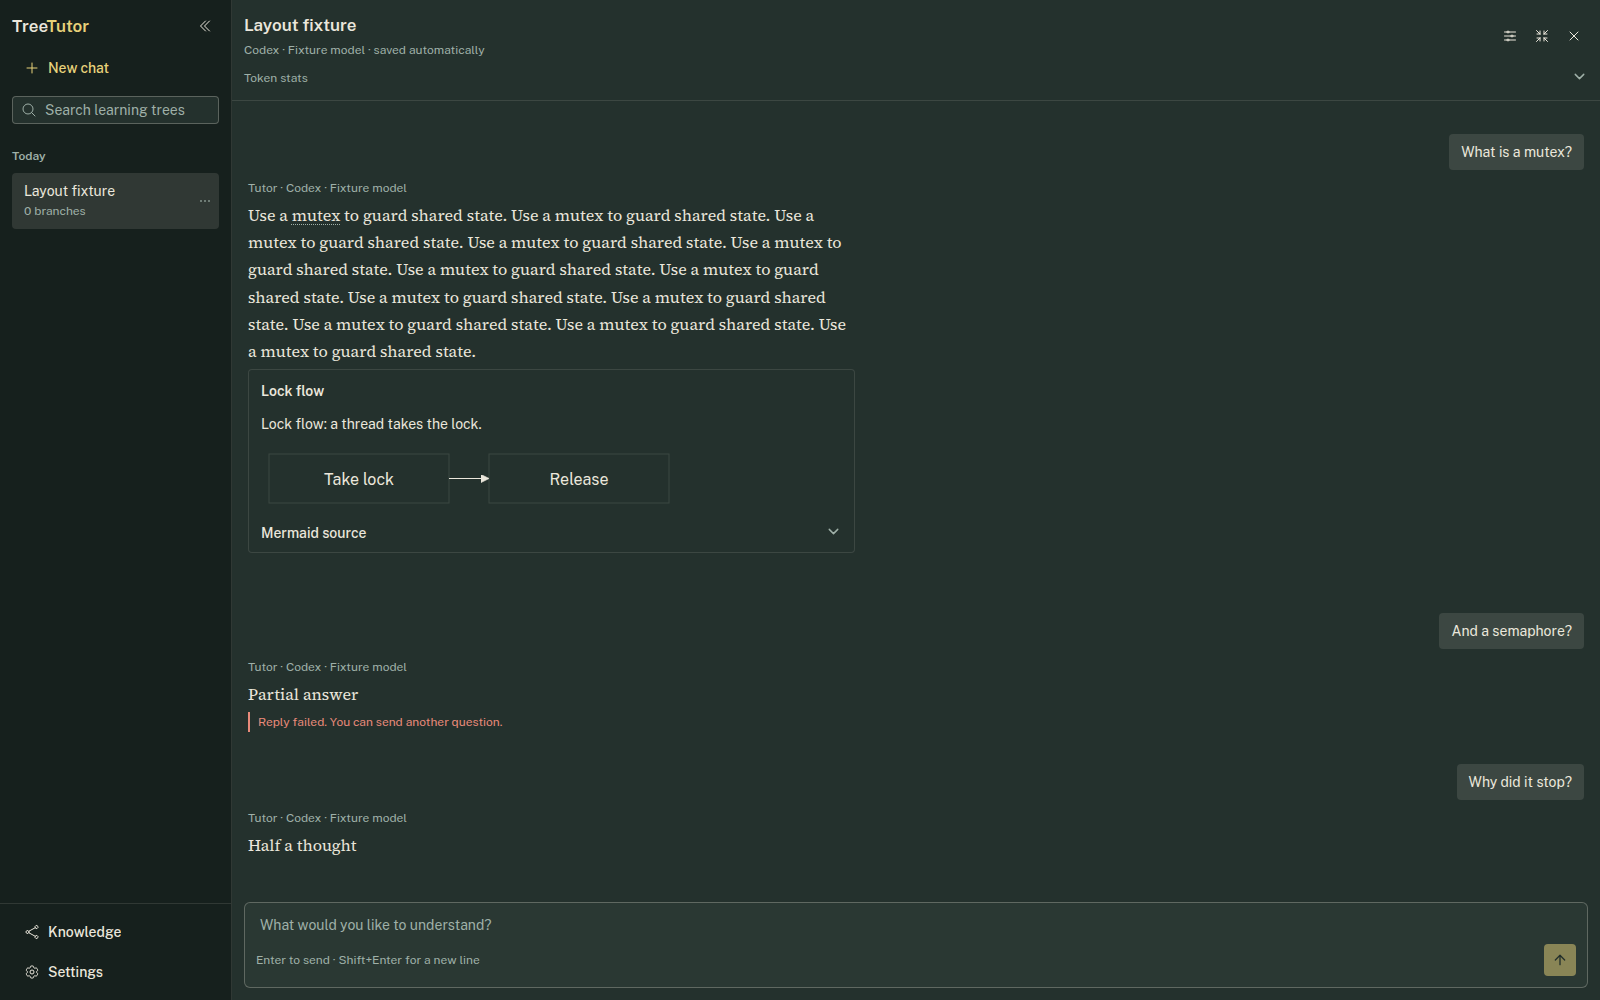
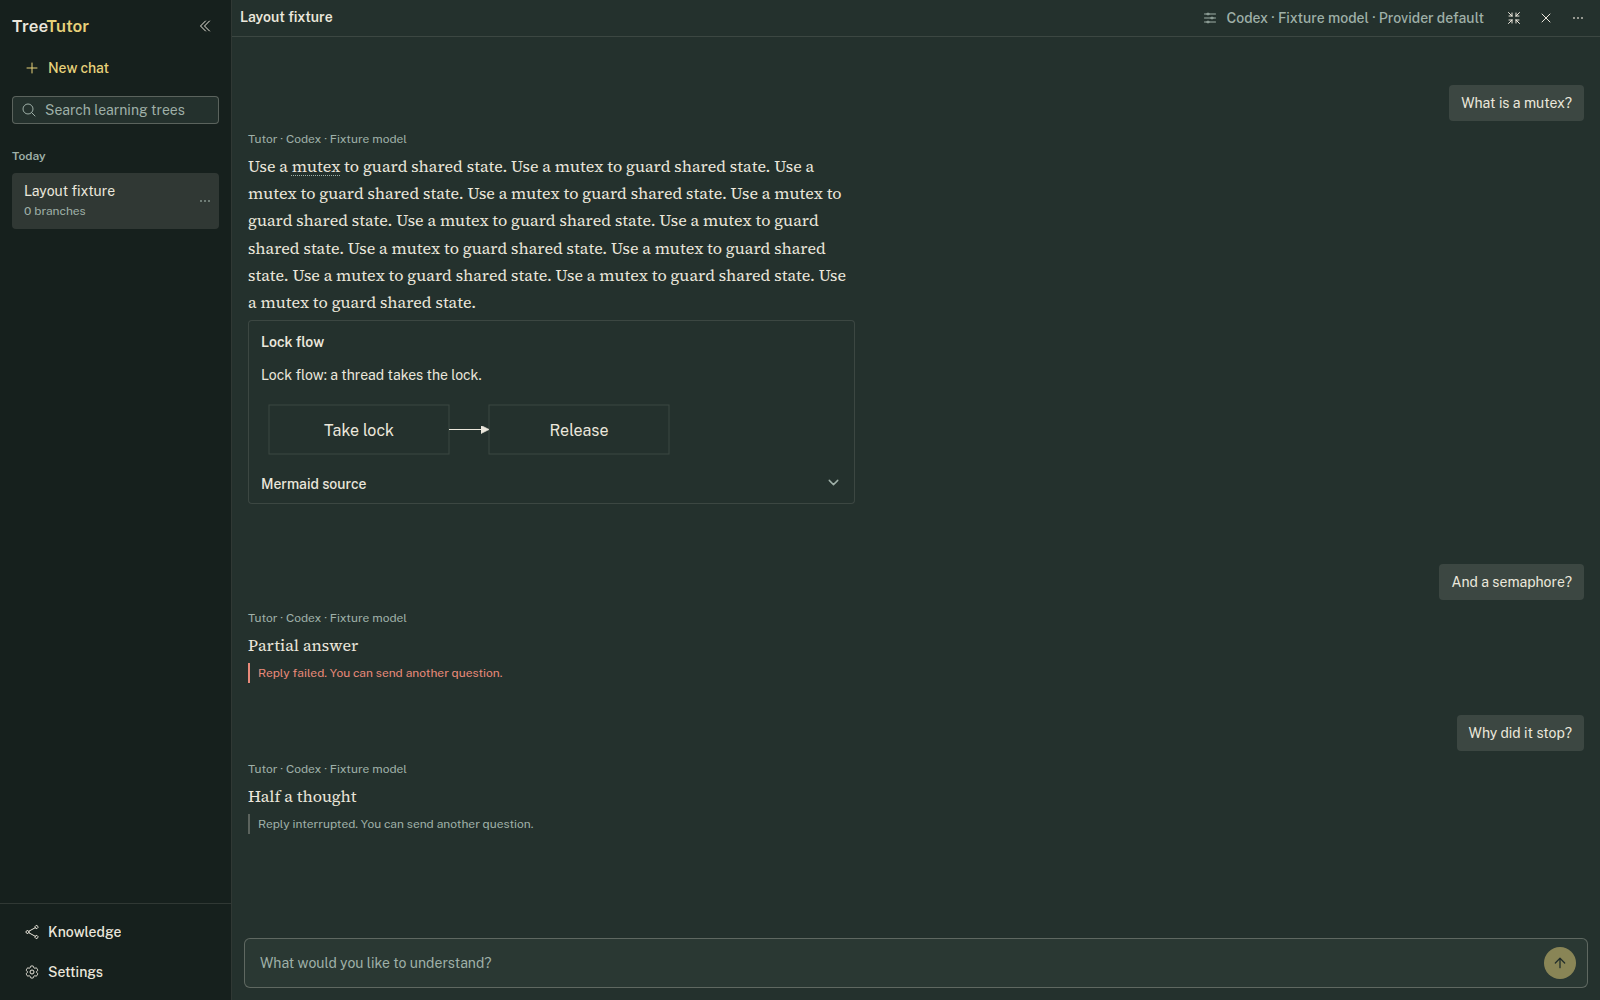
task: TreeTutor-dx0.1 Read and reply through a slim header and floating composer

diff --git a/src/ChatPage.tsx b/src/ChatPage.tsx
@@ -222,6 +222,7 @@ export default function ChatPage({ appearance, setAppearance }: { appearance: Ap
   const [root, setRoot] = useState<string>();
   const [overview, setOverview] = useState(true);
   const [expanded, setExpanded] = useState(false);
+  const [statsOpen, setStatsOpen] = useState(false);
   const [folds, setFolds] = useState<{ root: string; ids: string[] }>();
   const [transitionBox, setTransitionBox] = useState<string>();
   const overviewOrigin = useRef<{ id: string; control: string }>(undefined);
@@ -745,13 +746,13 @@ export default function ChatPage({ appearance, setAppearance }: { appearance: Ap
           onKeyDown={e => { const next = keyChatWidth(shownChatWidth, e.key, workspaceWidth, e.shiftKey); if (next === undefined) return; e.preventDefault(); setChatWidth(next); }} />}
         <section id="focused-chat" className="focused-chat" style={{ display: overview && root ? 'none' : 'flex' }} onKeyDown={e => { if (e.key === 'Escape' && !branch && !e.defaultPrevented && !(e.target as Element).closest('[role=menu], video, dialog')) { e.preventDefault(); returnToTree(); } }}>
         {tree ? <>
-          <header className="chat-header"><VStack padding={3} gap={1}>
+          <header className="chat-header"><VStack paddingInline={2} paddingBlock={1} gap={1}>
             <HStack gap={1} vAlign="center" className="chat-heading-row">
+              {tree.branch && <IconButton label="Return to parent conversation" tooltip={`Back to ${state?.trees.find(t => t.id === tree.branch!.parent)?.title ?? 'parent conversation'}`} icon={<ArrowUturnLeftIcon />} variant="ghost" size="sm" onClick={() => openConversation(tree.branch!.parent)} />}
               <VStack gap={0} className="chat-title">
-                {renaming?.id === tree.id && renaming.place === 'header' ? <TitleEditor key={tree.id} title={tree.title} save={title => rename(tree.id, title)} cancel={finishRename} /> : <Button id="rename-conversation" className="rename-title" label="Rename conversation" tooltip={`Rename ${tree.title}`} variant="ghost" size="sm" onClick={() => setRenaming({ id: tree.id, place: 'header' })}><Heading level={2} style={{ viewTransitionName: !overview && transitionBox ? 'conversation' : undefined }}>{tree.title}</Heading></Button>}
-                <Text type="supporting" color="secondary" className="chat-model">{modelLabel(tree)} · {effortLabel(tree.effort)} · saved automatically</Text>
+                {renaming?.id === tree.id && renaming.place === 'header' ? <TitleEditor key={tree.id} title={tree.title} save={title => rename(tree.id, title)} cancel={finishRename} /> : <Button id="rename-conversation" className="rename-title" label="Rename conversation" tooltip={tree.title} variant="ghost" size="sm" onClick={() => setRenaming({ id: tree.id, place: 'header' })}><Heading level={2} style={{ viewTransitionName: !overview && transitionBox ? 'conversation' : undefined }}>{tree.title}</Heading></Button>}
               </VStack>
-              <DropdownMenu presentation="popover" alignment="end" menuWidth="16rem" isMenuOpen={modelMenuOpen} onOpenChange={open => void openModels(open)} renderTrigger={props => <IconButton {...props} label="Model for next reply" tooltip={active ? 'Wait for this reply to finish before changing models' : openingModels ? 'Loading models' : savingModel ? 'Saving model selection' : `Model for next reply: ${modelLabel(tree)}`} icon={<AdjustmentsHorizontalIcon />} variant="ghost" size="sm" isDisabled={active || !!savingModel || openingModels} isLoading={openingModels || savingModel === tree.id} />}>
+              <DropdownMenu presentation="popover" alignment="end" menuWidth="16rem" isMenuOpen={modelMenuOpen} onOpenChange={open => void openModels(open)} renderTrigger={props => <Button {...props} className="model-picker" label="Model for next reply" tooltip={active ? 'Wait for this reply to finish before changing models' : openingModels ? 'Loading models' : savingModel ? 'Saving model selection' : `Model for next reply: ${modelLabel(tree)} · ${effortLabel(tree.effort)}`} icon={<AdjustmentsHorizontalIcon />} variant="ghost" size="sm" isDisabled={active || !!savingModel || openingModels} isLoading={openingModels || savingModel === tree.id}><span className="chat-model">{modelLabel(tree)} · {effortLabel(tree.effort)}</span></Button>}>
                 {['claude', 'codex', 'openai'].map(id => { const p = providers?.[id] ?? { label: providerLabel(id), connected: false }; return <DropdownMenuGroup key={id} title={p.connected ? p.label : `${p.label} · not connected`}>
                   {p.connected && models?.some(m => m.provider === id) ? <DropdownMenuRadioGroup label={`${p.label} models`} value={tree.provider === id ? tree.model ?? models?.find(m => m.provider === id && m.isDefault)?.model : undefined} onChange={model => void changeModel(id, model, tree.effort && models?.find(m => m.provider === id && m.model === model)?.efforts?.includes(tree.effort) ? tree.effort : null)}>
                     {tree.provider === id && tree.model && !models?.some(m => m.provider === id && m.model === tree.model) && <DropdownMenuRadioItem value={tree.model} label={`${tree.model} (saved)`} isDisabled />}
@@ -771,25 +772,23 @@ export default function ChatPage({ appearance, setAppearance }: { appearance: Ap
               </DropdownMenu>
               <IconButton className="expand-chat" label={expanded ? 'Show map beside chat' : 'Expand chat'} tooltip={expanded ? 'Show map beside chat' : 'Expand chat'} icon={expanded ? <ArrowsPointingInIcon /> : <ArrowsPointingOutIcon />} variant="ghost" size="sm" onClick={toggleExpanded} />
               <IconButton label="Return to tree" tooltip="Back to map (Esc)" icon={<XMarkIcon />} variant="ghost" size="sm" onClick={returnToTree} />
+              <DropdownMenu presentation="popover" alignment="end" renderTrigger={props => <IconButton {...props} label="More conversation options" tooltip="More" icon={<EllipsisHorizontalIcon />} variant="ghost" size="sm" />}>
+                <DropdownMenuItem label={statsOpen ? 'Hide token stats' : 'Show token stats'} onClick={() => setStatsOpen(open => !open)} />
+                <DropdownMenuItem label="Rename conversation" icon={<PencilSquareIcon />} onClick={() => setRenaming({ id: tree.id, place: 'header' })} />
+              </DropdownMenu>
             </HStack>
             {modelNotice && <Text type="supporting" role="status">{modelNotice}</Text>}
             {unavailableSelection && <Text type="supporting" role="alert">Saved model or effort unavailable. Check Connections in Settings or choose a listed model and effort. Your discussion is saved.</Text>}
             {tree.provider === 'codex' && codexFallback && <Text type="supporting" color="secondary" role="note">GPT-6.1 Terra isn’t listed for this account. New conversations use {codexFallback.label}, the account default.</Text>}
-            {tree.branch && <HStack gap={1} vAlign="center" wrap="wrap" className="chat-parent">
-              <Button label="Return to parent conversation" variant="ghost" size="sm" icon={<ArrowUturnLeftIcon />} onClick={() => openConversation(tree.branch!.parent)}>{state?.trees.find(t => t.id === tree.branch!.parent)?.title ?? 'Parent conversation'}</Button>
-              <Text type="supporting" color="secondary">from “{tree.branch.text}”</Text>
-            </HStack>}
-            <Collapsible key={tree.id} className="chat-stats" defaultIsOpen={false} trigger={<Text type="supporting" color="secondary">Token stats</Text>}>
-              <VStack gap={2} className="chat-stats-body">
-                {tree.messages.filter(m => m.role === 'assistant' && m.status === 'completed').map((m, i) => <Text key={m.id} type="supporting" color="secondary">Reply {i + 1}: {replyUsageLine(m.usage ?? null, tree.suggestions?.find(s => s.message === m.id)?.usage)}</Text>)}
-                {!tree.messages.some(m => m.role === 'assistant' && m.status === 'completed') && <Text type="supporting" color="secondary">Token usage appears after a completed reply.</Text>}
-              </VStack>
-            </Collapsible>
+            {statsOpen && <VStack gap={1} className="chat-stats-body" role="region" aria-label="Token stats">
+              {tree.messages.filter(m => m.role === 'assistant' && m.status === 'completed').map((m, i) => <Text key={m.id} type="supporting" color="secondary">Reply {i + 1}: {replyUsageLine(m.usage ?? null, tree.suggestions?.find(s => s.message === m.id)?.usage)}</Text>)}
+              {!tree.messages.some(m => m.role === 'assistant' && m.status === 'completed') && <Text type="supporting" color="secondary">Token usage appears after a completed reply.</Text>}
+            </VStack>}
             {modelError && <HStack gap={2} vAlign="center" role="alert"><Text type="supporting">{modelError}</Text><Button label="Retry loading models" variant="ghost" size="sm" onClick={() => void loadModels()} /></HStack>}
             {!modelError && models && !models.length && <Button label="Retry loading models" variant="ghost" size="sm" onClick={() => void loadModels()} />}
           </VStack></header>
           {source && !validSource && <Text role="alert">Saved source passage is unavailable. No replacement passage was selected.</Text>}
-          <ChatLayout density="balanced" composer={<ChatComposer elevation="none" value={drafts[tree.id] ?? ''} onChange={value => setDrafts(d => ({ ...d, [tree.id]: value }))} onSubmit={text => void send(text)} isStopShown={active} onStop={() => { void api(`/api/trees/${tree.id}/stop`, {}).catch(e => setError(e.message)); }} input={<ChatComposerInput handleRef={composer} label="Your question" maxRows={4} value={drafts[tree.id] ?? ''} onChange={value => setDrafts(d => ({ ...d, [tree.id]: value }))} isDisabled={active} placeholder="What would you like to understand?" />} footerActions={<Text type="supporting" color="secondary">Enter to send · Shift+Enter for a new line</Text>} />}>
+          <ChatLayout density="balanced" composer={<ChatComposer elevation="none" value={drafts[tree.id] ?? ''} onChange={value => setDrafts(d => ({ ...d, [tree.id]: value }))} onSubmit={text => void send(text)} isStopShown={active} onStop={() => { void api(`/api/trees/${tree.id}/stop`, {}).catch(e => setError(e.message)); }} input={<ChatComposerInput handleRef={composer} label="Your question" maxRows={4} value={drafts[tree.id] ?? ''} onChange={value => setDrafts(d => ({ ...d, [tree.id]: value }))} isDisabled={active} placeholder="What would you like to understand?" />} />}>
             <ChatMessageList gap={2}>
               {tree.branch && <Collapsible className="inherited-context" defaultIsOpen={false} trigger={<Text weight="medium">Inherited from {state?.trees.find(t => t.id === tree.branch!.parent)?.title ?? 'parent conversation'}</Text>}>
                 <dl className="inherited-body">

diff --git a/src/layout.ts b/src/layout.ts
@@ -54,13 +54,8 @@ html { view-transition-name: none; }
 .sr-only { position: absolute; width: 1px; height: 1px; padding: 0; margin: -1px; overflow: hidden; clip-path: inset(50%); white-space: nowrap; border: 0; }
 .focus-reveal:not(:focus-visible) { position: absolute; width: 1px; height: 1px; overflow: hidden; clip-path: inset(50%); white-space: nowrap; }
 .chat-header { flex: none; max-height: 40dvh; overflow: auto; border-bottom: thin solid var(--color-border); }
-.chat-heading-row > button { flex-shrink: 0; }
-.chat-model { overflow-wrap: anywhere; }
-.chat-parent { color: var(--color-text-secondary); }
-.chat-parent > button { min-width: 0; height: auto; white-space: normal; text-align: start; }
-.chat-parent > .astryx-text { min-width: 0; overflow-wrap: anywhere; }
-.chat-stats .astryx-collapsible-trigger { padding: 0; min-height: var(--spacing-6); color: var(--color-text-secondary); }
-.chat-stats-body { max-height: 20dvh; overflow: auto; padding-block: var(--spacing-2); overflow-wrap: anywhere; }
+.chat-heading-row > button:not(.model-picker) { flex-shrink: 0; }
+.chat-stats-body { max-height: 20dvh; overflow: auto; padding-block: var(--spacing-1) var(--spacing-2); padding-inline: var(--spacing-2); overflow-wrap: anywhere; }
 .bubble-tint-swatch { width: var(--spacing-5); aspect-ratio: 1; border: thin solid var(--color-border-emphasized); border-radius: var(--radius-element); }
 .question-bubble { background: var(--question-bubble-tint); color: var(--color-text-primary); border-radius: var(--radius-element); padding: var(--spacing-2) var(--spacing-3); overflow-wrap: anywhere; }
 .chat-title { flex: 1; min-width: 0; }
@@ -82,7 +77,9 @@ html { view-transition-name: none; }
 .chat-title .rename-title { width: 100%; min-width: 0; justify-content: flex-start; padding-inline: 0; }
 .saved-chat-title { flex: 1; min-width: 0; }
 .saved-chat-title > * { min-width: 0; }
-.chat-title h2 { font-size: var(--font-size-lg); font-weight: 600; overflow: hidden; text-overflow: ellipsis; white-space: nowrap; }
+.chat-title h2 { font-size: var(--font-size-base); font-weight: 600; overflow: hidden; text-overflow: ellipsis; white-space: nowrap; }
+.chat-heading-row .model-picker { flex-shrink: 1; min-width: 0; max-width: 45%; color: var(--color-text-secondary); }
+.chat-heading-row .model-picker .chat-model { overflow: hidden; text-overflow: ellipsis; white-space: nowrap; }
 .passage { position: relative; align-self: stretch; }
 .reply-md { display: block; min-width: 0; overflow-wrap: anywhere; }
 .reply-md > * + * { margin-block-start: var(--spacing-3); }
@@ -151,9 +148,15 @@ html { view-transition-name: none; }
 .focused-chat > .astryx-chat-layout { flex: 1; min-height: 0; overflow: auto; }
 /* Astryx's leading flex spacer bottom-aligns short logs; this world reads from the top. */
 .focused-chat .astryx-chat-message-list > :first-child > [aria-hidden=true]:first-child { flex: none; }
-.focused-chat .astryx-chat-layout > :last-child { background: var(--color-background-surface); }
+/* Floating composer: the dock fades in rather than drawing a band; it ignores pointers so passages above stay selectable. */
+.focused-chat .astryx-chat-layout > :last-child { background: linear-gradient(to bottom, transparent, var(--color-background-surface) var(--spacing-8)); pointer-events: none; }
+.focused-chat .astryx-chat-layout > :last-child > * { pointer-events: auto; }
+.focused-chat .astryx-chat-layout > :last-child > :first-child { pointer-events: none; }
+.focused-chat .astryx-chat-layout > :last-child > :first-child button { pointer-events: auto; }
 .focused-chat .astryx-chat-layout > :last-child > :nth-child(2) { display: none; }
-.focused-chat .astryx-chat-send-button { border-radius: var(--radius-element); }
+.focused-chat .astryx-chat-composer > :first-child { flex-direction: row; align-items: flex-end; gap: var(--spacing-2); border-radius: var(--radius-container); background: var(--color-background-popover); padding-block: var(--spacing-2); }
+.focused-chat .astryx-chat-composer > :first-child > :first-child { flex: 1; min-width: 0; align-self: center; }
+.focused-chat .astryx-chat-send-button { border-radius: 50%; }
 .tree-canvas { flex: 1; min-height: 0; background: var(--color-background-body); }
 .tree-canvas:focus-visible { outline: var(--focus-outline-width) solid var(--color-accent); outline-offset: calc(-1 * var(--spacing-1)); }
 .tree-workspace[data-expanded=true] .overview { display: none; }

diff --git a/DESIGN.md b/DESIGN.md
@@ -182,7 +182,7 @@ The viewport shell fills available height. Desktop puts the saved-tree rail (14.
 
 The rail scrolls its history above a labelled footer. It places the split-colour wordmark, yellow New chat text action, search and current-tree fill above saved items. Main spacing follows Astryx's quarter-rem rhythm: 1–6 for insets and related gaps, 8–12 for larger separation. The map's small control strip sits at the lower left. The field has no grid, watermark or minimap. Knowledge uses the same field language with a sticky detail column; content caps at 70rem.
 
-At 48rem and below, chat takes the width when open, the map yields, and the rail becomes a drawer. Knowledge detail follows the field. The settings shell changes from a bounded dialog (`min(50rem, 100dvh - 2rem)`) to viewport height; narrow navigation and selected section are separate views. Header metadata wraps, long content scrolls within its region, and the composer remains reachable. Replies cap each content block at 62ch; media and tables fit the column or scroll locally.
+At 48rem and below, chat takes the width when open, the map yields, and the rail becomes a drawer. Knowledge detail follows the field. The settings shell changes from a bounded dialog (`min(50rem, 100dvh - 2rem)`) to viewport height; narrow navigation and selected section are separate views. The focused chat header stays one row (title and model/effort shorten; Expand hides because chat already fills the width), long content scrolls within its region, and the floating composer remains reachable. Replies cap each content block at 62ch; media and tables fit the column or scroll locally.
 
 ## Elevation & Depth
 
